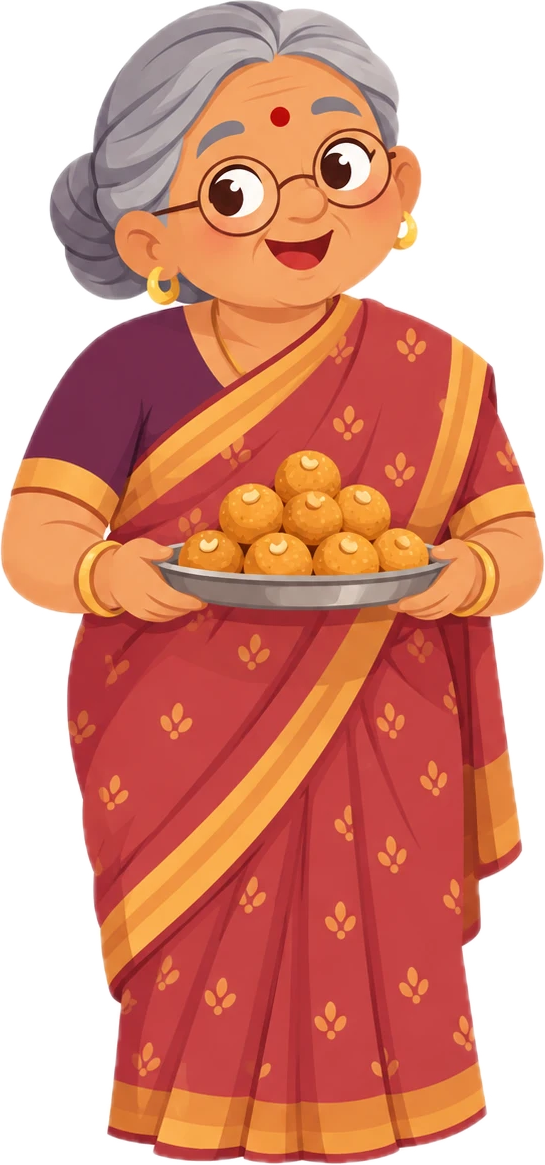
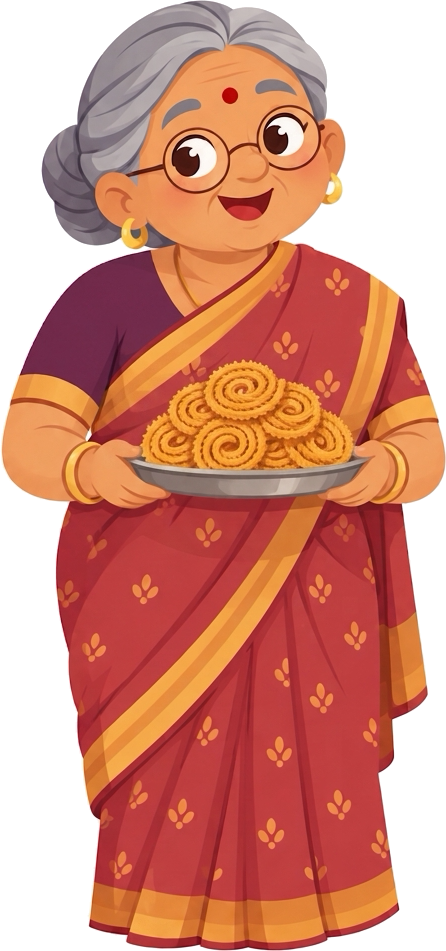
Paati's sharing pose now holds a plate of muruku
The user's new illustration, cut out from white, replaces the pose with a
plate of round sweets (chapter 4 and the last page).

diff --git a/src/content.js b/src/content.js
@@ -17,7 +17,7 @@ export const PAATI = {
   teaching: 'paati-teaching', // book in hand, finger raised
   proud: 'paati-proud', // laughing, thumbs up, waving
   gentle: 'paati-teaching',
-  celebrating: 'paati-sharing', // holding a plate of sweets to share
+  celebrating: 'paati-sharing', // holding a plate of muruku to share
 };
 
 // The page after the welcome, before Chapter 1: what the game is about, beside a big plate of muruku. Its lines

diff --git a/README.md b/README.md
@@ -86,6 +86,7 @@ Paati's lines, the quiz and the facts all live in [`src/content.js`](src/content
 
 ## Design decisions since the brief
 
+- **26 Oct 2026, Paati shares muruku:** Her sharing pose (chapter 4 and the last page) now holds a plate of muruku instead of round sweets, from the user's new illustration (`assets/paati/sharing.png`, source in `assets/paati/source/sharing.jpg`).
 - **26 Oct 2026, a shorter ending:** The three jars to share and the What you learned page are gone. After you offer your muruku to Paati, it flies over to her and the game goes straight to Bonus for your heart (or the last page, once the note has been offered). The safety line that sat on What you learned ("May contain sesame. Younger cooks need an adult near hot oil.") went with it; the chapter 3 story still warns about hot oil.
 - **26 Oct 2026, more of the user's art:** Flour (a jute sack with wheat), spices (a clay tray of seven spices) and ghee (a painted clay pot) now use the user's illustrations instead of the generated tins and jar, cut from one picture as `assets/art/flour-sack.png`, `spice-tray.png` and `ghee-pot.png`. `tools/cutout.swift` gained `crop=` and `erase=` for pictures with several things in them, and `shadow=` to take away soft drop shadows. On phones the kitchen's ingredient row sits a little lower so it clears the step tabs. The note page now shows the user's banana leaf laid with a full meal (`assets/art/food-leaf.png`) between the two lamps, in place of the leaf with three muruku and flowers.
 - **26 Oct 2026, before we begin, and a new banana leaf:** After Paati's welcome comes a new page, **Before we begin** (`src/scenes/IntroScene.js`), with a big plate of muruku on the right. It says we are going to learn how to make muruku, and along the way find out what Deepavali is. The heading slides in, then the words arrive **one at a time, at a pace people can read** ("make muruku" and "Deepavali" picked out in marigold), then **Start Chapter 1**. A tap or key press shows it all at once, and Reduce motion shows it all from the start. (A path of the four chapters under the words was tried and taken out.) The words are set by `wordText` in `src/ui/widgets.js`, and their text is `INTRO` in `src/content.js`. The muruku and banana leaf at the start of chapters 2 and 4 are gone, and the chapter 4 story now opens "You made muruku with your own two hands!" Every banana leaf (Result, the chapter 4 quiz, the offering and the note page) now uses the user's leaf illustration. The leaf and the plate of muruku are cut out from white as `assets/art/banana-leaf.png` and `muruku-pile.png` with `tools/cutout.swift`. A long header title (Chapter 4's) now moves left to clear the chapter diyas, and gets smaller only if it still doesn't fit.
